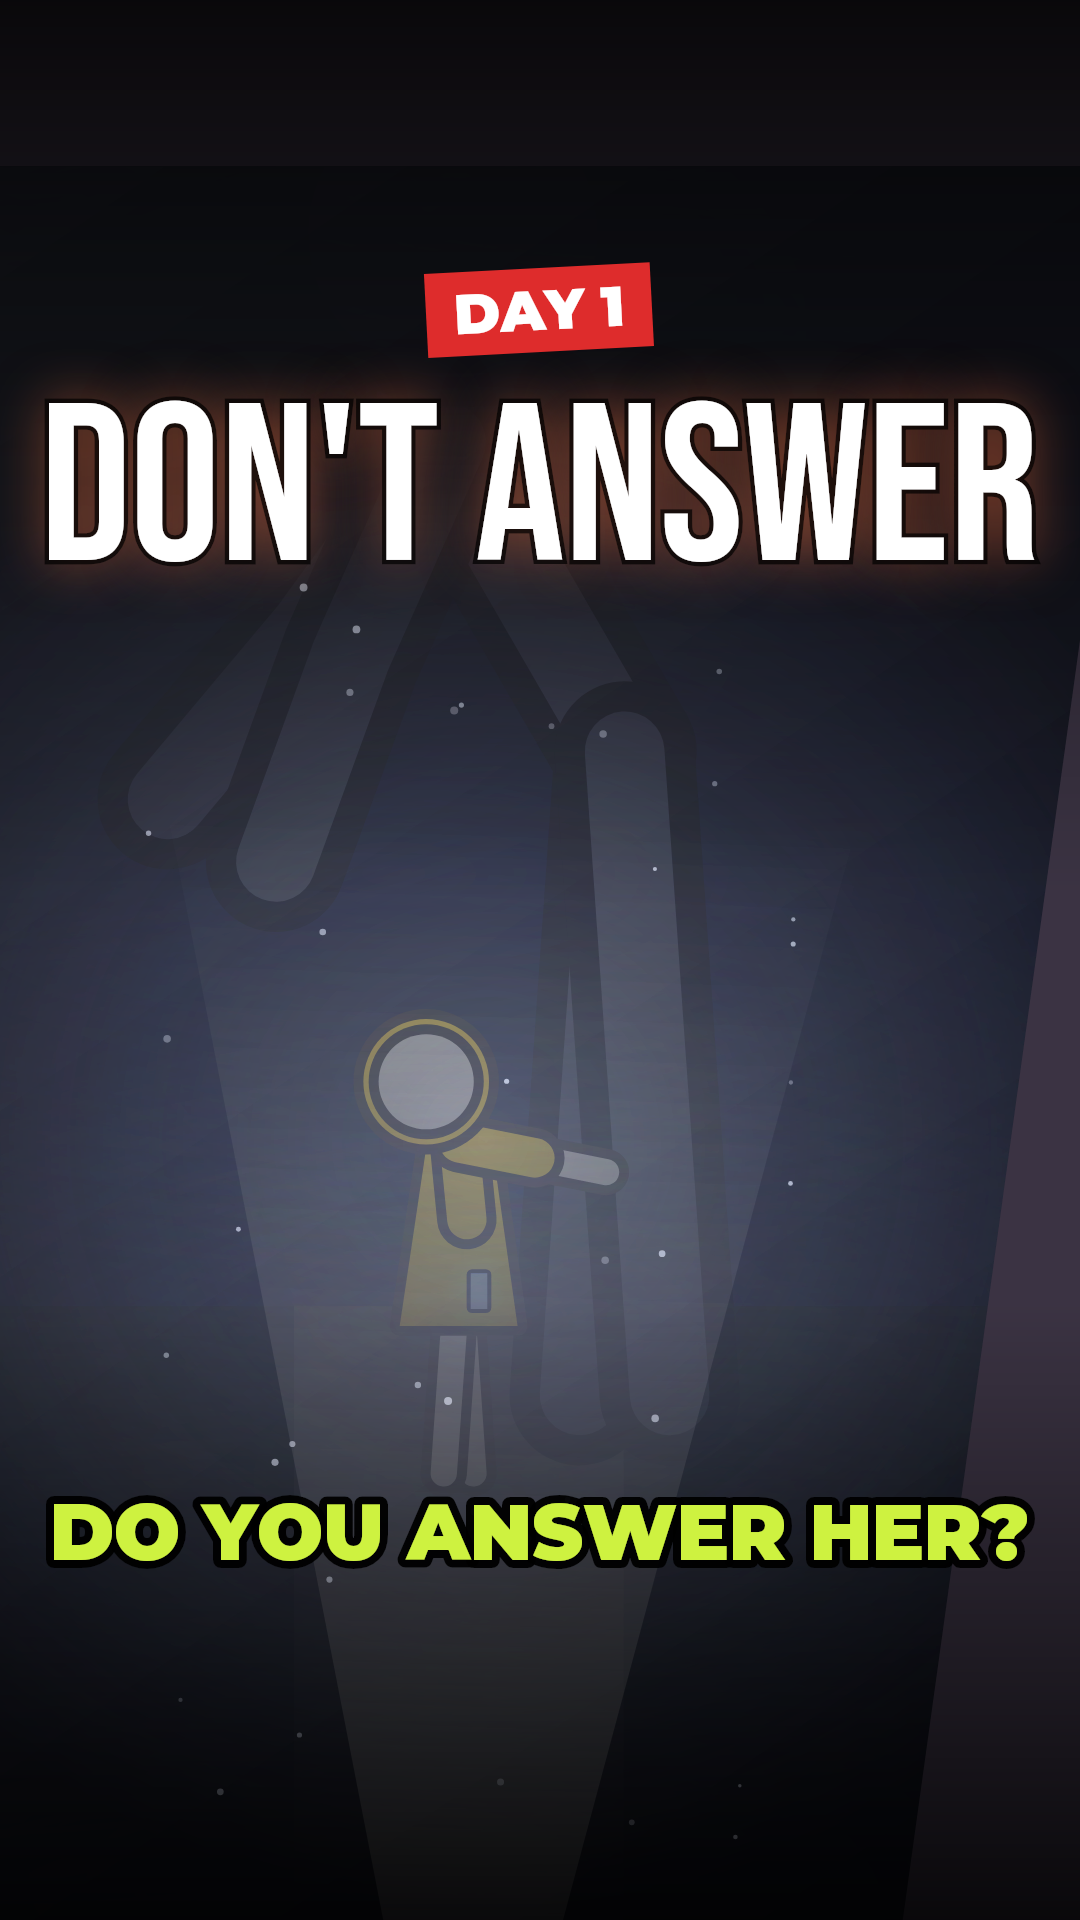
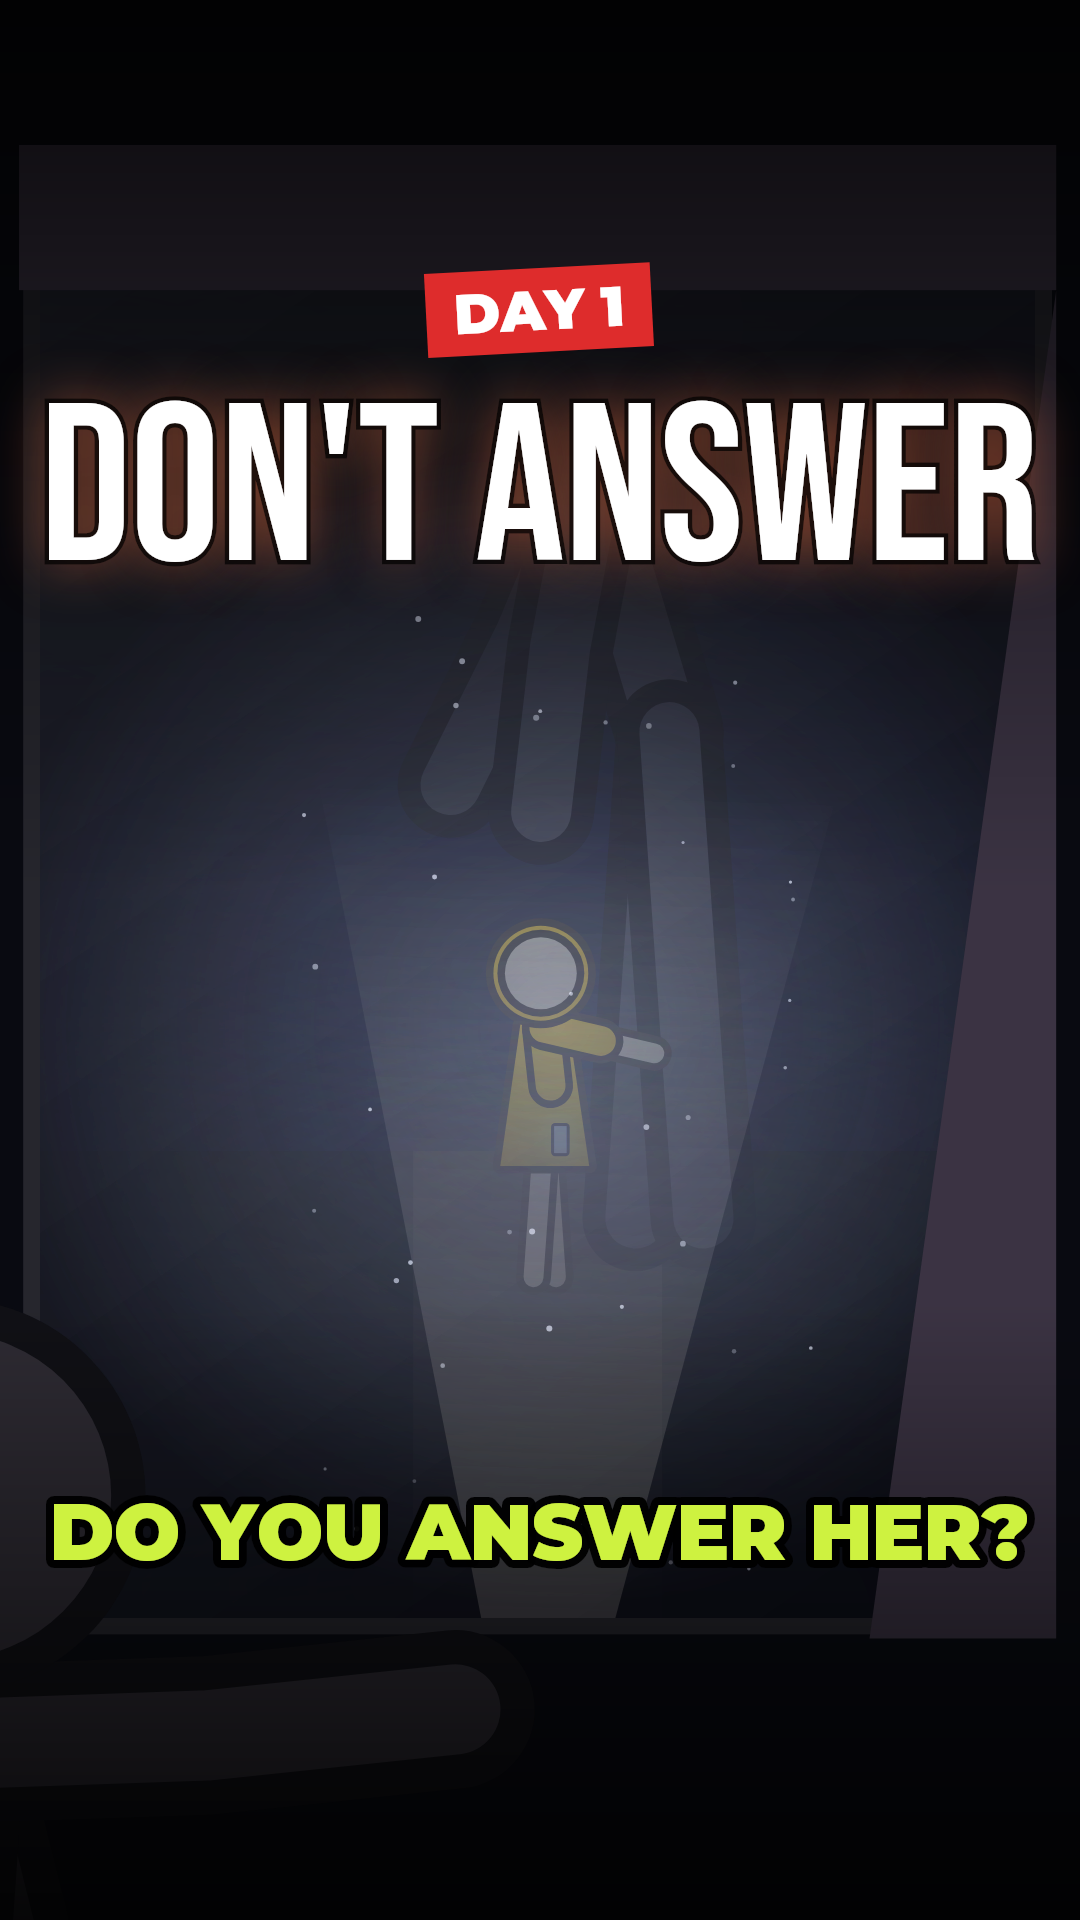
Day 1 v2 rendered: notes in RULES.md and new cover
- docs/RULES.md: v1 vs v2 table, the fixes the critics caught, engine audio
  notes (true mute, duck, -14 LUFS) and the stale alert-tone line corrected
- brand/cover_day1.png: from the v2 frame at 71.8 s

Claude-Session: https://claude.ai/code/session_0137oqicoUDfCc6BNiD5dPQT

diff --git a/docs/RULES.md b/docs/RULES.md
@@ -54,7 +54,7 @@ Stile grafico:
 - `shorts/rules.py`: la timeline la decide la voce. Ogni `Beat` è una battuta, divisa in pezzi a ogni "..." per avere pause vere. Il file contiene anche le didascalie, l'HUD con l'orologio che scorre, le card (regola, titolo, domanda), il cartellino del personaggio, il cartello finale con il glitch e le inquadrature: i beat consecutivi senza scena o camera nuova restano nella stessa inquadratura, così la camera continua senza salti.
 - `shorts/stick.py`: lo stickman con le pose (in piedi, seduto a terra, mani sulle ginocchia, spingere, carponi, telefono in mano...), la camminata e il respiro.
 - `shorts/pov_gfx.py`: la scenografia. Stanze, finestre con vista, porte con spioncino e luce sotto, librerie, divani, lampade, letti, skyline con luci e incendi, nebbia, pioggia, polvere, buio con le zone illuminate, fascio di torcia, telefono (lock screen, allerta, chat) e spioncino.
-- `shorts/rules_audio.py`: tappeto drone in re minore con sub e battito che segue la tensione di ogni beat, ducking sotto la voce, effetti procedurali (il vero tono delle allerte d'emergenza a 853+960 Hz, vibrazione, colpi alla porta, sirena, blackout, glitch, din-don da altoparlante...) e un limiter che porta il volume medio a quello del riferimento (circa -17 dB RMS).
+- `shorts/rules_audio.py`: tappeto drone in re minore con sub e battito che segue la tensione di ogni beat, ducking sotto la voce, effetti procedurali (un allarme inventato, vibrazione, colpi alla porta, sirena, blackout, glitch, din-don da altoparlante...). Dalla v2: silenzio vero (`Beat.mute`), musica che tace sulle parole di silenzio (`Beat.duck`), colpi automatici delle card disattivabili, eco di una battuta precisa come ultimo suono e master a **-14 LUFS** con picco vero sotto -1 dBTP (misuratore BS.1770 nostro, verificato contro ffmpeg).
 - Post-produzione: `POST_SOFT` in `formats.py`, con il bloom solo sulle luci vere, la vignetta e la grana.
 
 ## 4. Episodio 1: DON'T ANSWER (Day 1)
@@ -92,6 +92,34 @@ Dettagli per chi riguarda il video (nessuno li nomina):
 - L'eco finale è la domanda del narratore rallentata che esce dalla cassa staccata.
 
 **Durata**: circa 100 s, di cui 95 di storia (il riferimento ne dura 91).
+
+### Episodio 1, v2 (20/10, prima della pubblicazione)
+
+Rifatto applicando il [playbook](PLAYBOOK.md) uscito dall'analisi del [reference 3](REF3.md). Tre riscritture indipendenti (chirurgia, catena causale, inizio e fine), fusione, due critici avversari, correzioni. Stessa storia, stesse scene, stesso copy di lancio.
+
+| | v1 | v2 |
+|---|---|---|
+| Durata | 100 s | **75 s** |
+| Velocità della voce | 2,4 parole/s | ~2,6 parole/s (speed 1.31) |
+| "fog" e "voice" | a ~15 s | **entro 2,5 s** |
+| Regole 1-3 | lista | **catena**: ti vede dentro → copri; allora parla dalla TV con la voce della mamma → stacca; la casa di Ellie parla ancora e non c'è nessuno, la voce della mamma non prova niente → password |
+| Colpi di sub | ~9 | **5**: titolo, regola #1, blackout, rivelazione della #4, twist |
+| La torcia | contraddiceva la regola #1 | **una scelta** ("A light isn't a voice... would you?"), che costa ("It saw your light.") |
+| Registro | nessuno | **HOUSE LOG · DAY 1** dopo il blackout: 9/9 finestre e 4/4 casse dette, PHONE 100% e WORDS SAID OUT LOUD 0 per chi mette in pausa (semi del Day 2) |
+| Il minuto | sparso su tre orari | **11:57**: orologio rosso, e la ricevuta della mamma diventa "READ 11:51 PM" in rosso davanti a te |
+| Twist | sulla chat | **su nero in due righe**: "NOBODY EVER SAID IT." / "IT WAS READ." con 0,12 s di silenzio assoluto prima dell'ultima parola e il colpo sulla sua consonante |
+| Outro | a 26 s dalla fine | detto al minuto 1:05 e **ripreso dalla cassa staccata come ultimo suono** |
+| Cartello finale | 4,3 s | 2 s, "FOLLOW · STAY QUIET" |
+| Loudness | -17,1 LUFS | **-14,2 LUFS** |
+
+Cose trovate dai critici e corrette prima del render:
+- Kokoro legge "read" isolato al presente: la battuta dice "it was... red", e la card scrive READ.
+- Ellie era disegnata con il collo piegato, la posa "presa" del vicino: dava la risposta del dilemma. Ora è dritta.
+- La chat della mamma mostrava i puntini di scrittura con il tuo messaggio solo "Delivered", impossibile su un telefono vero.
+- Il telefono in mano a Ellie ora mostra la stessa chat del tuo: è davvero il telefono della mamma.
+- L'orologio che scorre non passa mai da 6:42 o 7:15 (gli orari del reference), nemmeno per un fotogramma.
+
+Copertina: fotogramma a 1:11.8 (Ellie nel fascio, la cosa dietro, la tua sagoma in primo piano).
 
 ## 5. Note oneste
 
